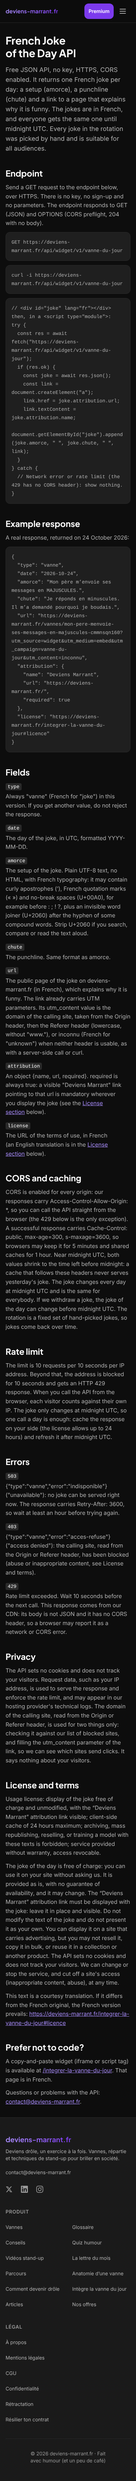
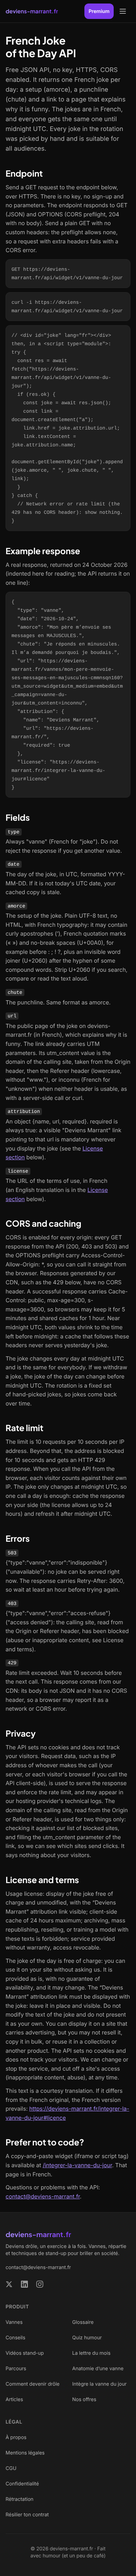
fix(widget-s22): /developers, 3e tour (périmètre CORS exact, IP de l'appelant, pas d'en-tête personnalisé, rotation à part)
Claude-Session: https://claude.ai/code/session_01YAxbXJAdESRnkaFF4w4w5d

diff --git a/apps/web/src/config/textes/developers.ts b/apps/web/src/config/textes/developers.ts
@@ -29,10 +29,10 @@ export const TEXTE_INTRO =
 
 /** Phrase avant l'exemple d'appel (GET https://deviens-marrant.fr/api/widget/v1/vanne-du-jour). */
 export const TEXTE_ENDPOINT =
-  "Send a GET request to the endpoint below, over HTTPS. There is no key, no sign-up and no parameters. The endpoint responds to GET (JSON) and OPTIONS (CORS preflight, 204 with no body).";
+  "Send a GET request to the endpoint below, over HTTPS. There is no key, no sign-up and no parameters. The endpoint responds to GET (JSON) and OPTIONS (CORS preflight, 204 with no body). Send a plain GET with no custom headers: the preflight allows none, so a request with extra headers fails with a CORS error.";
 
 /** Phrase avant l'exemple de réponse. */
-export const TEXTE_EXEMPLE = "A real response, returned on 24 October 2026:";
+export const TEXTE_EXEMPLE = "A real response, returned on 24 October 2026 (indented here for reading; the API returns it on one line):";
 
 /** Réponse réelle du 24/10/2026, à placer telle quelle dans un bloc de code. */
 export const EXEMPLE_REPONSE = `{"type":"vanne","date":"2026-10-24","amorce":"Mon père m’envoie ses messages en MAJUSCULES.","chute":"Je réponds en minuscules. Il m’a demandé pourquoi je boudais.","url":"https://deviens-marrant.fr/vannes/mon-pere-menvoie-ses-messages-en-majuscules-cmmnsqn160?utm_source=widget&utm_medium=embed&utm_campaign=vanne-du-jour&utm_content=inconnu","attribution":{"name":"Deviens Marrant","url":"https://deviens-marrant.fr/","required":true},"license":"https://deviens-marrant.fr/integrer-la-vanne-du-jour#licence"}`;
@@ -45,11 +45,11 @@ export const CHAMPS: { nom: string; description: string }[] = [
   {
     nom: "type",
     description:
-      `Always "vanne" (French for "joke") in this version. If you get another value, do not reject the response.`,
+      `Always "vanne" (French for "joke"). Do not reject the response if you get another value.`,
   },
   {
     nom: "date",
-    description: "The day of the joke, in UTC, formatted YYYY-MM-DD.",
+    description: "The day of the joke, in UTC, formatted YYYY-MM-DD. If it is not today's UTC date, your cached copy is stale.",
   },
   {
     nom: "amorce",
@@ -81,7 +81,11 @@ export const CHAMPS: { nom: string; description: string }[] = [
 
 /** CORS, cache, moment du changement de vanne. */
 export const TEXTE_CORS_CACHE =
-  "CORS is enabled for every origin: our responses carry Access-Control-Allow-Origin: *, so you can call the API straight from the browser (the 429 below is the only exception). A successful response carries Cache-Control: public, max-age=300, s-maxage=3600, so browsers may keep it for 5 minutes and shared caches for 1 hour. Near midnight UTC, both values shrink to the time left before midnight: a cache that follows these headers never serves yesterday's joke. The joke changes every day at midnight UTC and is the same for everybody. If we withdraw a joke, the joke of the day can change before midnight UTC. The rotation is a fixed set of hand-picked jokes, so jokes come back over time.";
+  "CORS is enabled for every origin: every GET response from the API (200, 403 and 503) and the OPTIONS preflight carry Access-Control-Allow-Origin: *, so you can call it straight from the browser. Responses generated by our CDN, such as the 429 below, have no CORS header. A successful response carries Cache-Control: public, max-age=300, s-maxage=3600, so browsers may keep it for 5 minutes and shared caches for 1 hour. Near midnight UTC, both values shrink to the time left before midnight: a cache that follows these headers never serves yesterday's joke.";
+
+/** Rotation : changement de vanne, retrait, retour des vannes (paragraphe à part, revue v3 C3). */
+export const TEXTE_ROTATION =
+  "The joke changes every day at midnight UTC and is the same for everybody. If we withdraw a joke, the joke of the day can change before midnight UTC. The rotation is a fixed set of hand-picked jokes, so jokes come back over time.";
 
 /** Limite de requêtes et conseil de cache. */
 export const TEXTE_LIMITE =
@@ -110,7 +114,7 @@ export const ERREURS: { code: string; description: string }[] = [
 
 /** Vie privée : usages du domaine appelant et des données de la requête. */
 export const TEXTE_VIE_PRIVEE =
-  "The API sets no cookies and does not track your visitors. Request data, such as your IP address, is used to serve the response and enforce the rate limit, and may appear in our hosting provider's technical logs. The domain of the calling site, read from the Origin or Referer header, is used for two things only: checking it against our list of blocked sites, and filling the utm_content parameter of the link, so we can see which sites send clicks. It says nothing about your visitors.";
+  "The API sets no cookies and does not track your visitors. Request data, such as the IP address of whoever makes the call (your server, or each visitor's browser if you call the API client-side), is used to serve the response and enforce the rate limit, and may appear in our hosting provider's technical logs. The domain of the calling site, read from the Origin or Referer header, is used for two things only: checking it against our list of blocked sites, and filling the utm_content parameter of the link, so we can see which sites send clicks. It says nothing about your visitors.";
 
 /**
  * Traduction de la ligne « Licence d'usage » et des « Conditions » (@legal), adaptée à l'API.

diff --git a/apps/web/src/__tests__/feature/developers-s22.test.tsx b/apps/web/src/__tests__/feature/developers-s22.test.tsx
@@ -32,6 +32,7 @@ import {
   H1,
   PAGE_TITLE,
   TEXTE_CORS_CACHE,
+  TEXTE_ROTATION,
   TEXTE_ENDPOINT,
   TEXTE_INTRO,
   TEXTE_LICENCE_CONDITIONS,
@@ -70,12 +71,12 @@ describe("page /developers", () => {
     const { container } = render(<Page />);
     const textes = [...container.querySelectorAll("p")].map((p) => p.textContent);
     expect(TEXTE_INTRO).toMatch(/^Free JSON API, no key, HTTPS, CORS enabled\. /);
-    expect(TEXTE_ENDPOINT).toContain("no parameters. The endpoint responds to GET (JSON) and OPTIONS (CORS preflight, 204 with no body).");
-    expect(TEXTE_CORS_CACHE).toContain("(the 429 below is the only exception)");
-    expect(TEXTE_CORS_CACHE).toMatch(/so jokes come back over time\.$/);
+    expect(TEXTE_ENDPOINT).toContain("no parameters. The endpoint responds to GET (JSON) and OPTIONS (CORS preflight, 204 with no body). Send a plain GET with no custom headers");
+    expect(TEXTE_CORS_CACHE).toContain("Responses generated by our CDN, such as the 429 below, have no CORS header.");
+    expect(TEXTE_ROTATION).toMatch(/so jokes come back over time\.$/);
     expect(TEXTE_VIE_PRIVEE).toContain("may appear in our hosting provider's technical logs.");
     expect(TEXTE_VIE_PRIVEE).not.toContain("used only to serve");
-    for (const t of [TEXTE_INTRO, TEXTE_ENDPOINT, TEXTE_CORS_CACHE, TEXTE_VIE_PRIVEE]) expect(textes).toContain(t);
+    for (const t of [TEXTE_INTRO, TEXTE_ENDPOINT, TEXTE_CORS_CACHE, TEXTE_ROTATION, TEXTE_VIE_PRIVEE]) expect(textes).toContain(t);
   });
 
   it("endpoint, curl -i, fetch en module avec contrôle de res.ok", () => {
@@ -97,7 +98,7 @@ describe("page /developers", () => {
     expect(codesDl(container, "Fields")).toEqual(["type", "date", "amorce", "chute", "url", "attribution", "license"]);
     expect(CHAMPS).toHaveLength(7);
     const desc = (nom: string) => CHAMPS.find((c) => c.nom === nom)?.description;
-    expect(desc("type")).toBe('Always "vanne" (French for "joke") in this version. If you get another value, do not reject the response.');
+    expect(desc("type")).toBe('Always "vanne" (French for "joke"). Do not reject the response if you get another value.');
     expect(desc("amorce")).toBe(
       "The setup of the joke. Plain UTF-8 text, no HTML, with French typography: it may contain curly apostrophes (’), French quotation marks (« ») and no-break spaces (U+00A0), for example before : ; ! ?, plus an invisible word joiner (U+2060) after the hyphen of some compound words. Strip U+2060 if you search, compare or read the text aloud.",
     );

diff --git a/apps/web/src/app/(dashboard)/developers/page.tsx b/apps/web/src/app/(dashboard)/developers/page.tsx
@@ -22,6 +22,7 @@ import {
   EXEMPLE_REPONSE,
   CHAMPS,
   TEXTE_CORS_CACHE,
+  TEXTE_ROTATION,
   TEXTE_LIMITE,
   ERREURS,
   TEXTE_VIE_PRIVEE,
@@ -176,6 +177,7 @@ export default function DevelopersPage() {
 
         <h2 className={H2}>{H2_CORS_CACHE}</h2>
         <p className={P}>{TEXTE_CORS_CACHE}</p>
+        <p className={P}>{TEXTE_ROTATION}</p>
 
         <h2 className={H2}>{H2_LIMITE}</h2>
         <p className={P}>{TEXTE_LIMITE}</p>

diff --git a/docs/reviews/review-developers-s22-v3.md b/docs/reviews/review-developers-s22-v3.md
@@ -1,0 +1,132 @@
+# Revue à l'aveugle : page `/developers` (API vanne du jour), v3, 24/10/2026
+
+Relecteur : @reviewer. J'ai jugé la page sur le résultat seul, sans ouvrir les rapports précédents de `docs/reviews/`.
+Fichiers lus : `config/textes/developers.ts`, `app/(dashboard)/developers/page.tsx`, `app/api/widget/v1/vanne-du-jour/route.ts`, `lib/widget/vanne-du-jour.ts`, `config/widget-vanne-du-jour.ts`, `lib/fr-typo.ts`, plus `robots.ts`, `layout.tsx` (racine et `(dashboard)`), `lib/ai/daily-joke-pool.ts` (filtre du pool), `vannes/[slug]/page.tsx` (fiche), `lib/widget/mesure.ts`, `wrangler.jsonc`. J'ai aussi regardé les deux captures.
+Hors périmètre, conformément aux décisions du fondateur : texte de licence (TEXTE_LICENCE_*), absence de bouton Copy, documentation de U+2060.
+
+## Verdict : NO-GO (1 bloquant), note globale 9,0/10
+
+Les 6 critères sont notés en fin de rapport. La page est solide : tout ce qu'elle dit du format, du cache, des erreurs 403/503/429, des UTM et de la rotation correspond au code et aux mesures de production. Il reste une affirmation absolue fausse, « the 429 below is the only exception » sur CORS. La grille la classe en bloquant, et une phrase suffit à la corriger. Avec B1, C1, C2 et C3 corrigés, je prévois ≥ 9,3/10 et un GO.
+
+### Résumé exécutif
+Un développeur pressé trouve en quelques secondes l'endpoint, l'absence de clé, CORS et un exemple réel. Le robot de l'annuaire peut tester l'endpoint, car `robots.txt` autorise `/api/widget/`. Il reste trois points avant publication : une phrase sur CORS trop absolue, une formulation vie privée qui laisse croire que seule l'IP de l'intégrateur est traitée, et une mise en garde manquante sur les en-têtes personnalisés (le preflight n'en autorise aucun). Rien d'inventé, aucun tiret cadratin, aucun concurrent cité.
+
+## Vérification d'exactitude (affirmation → preuve)
+
+| Affirmation de la page | Verdict | Preuve |
+|---|---|---|
+| GET + OPTIONS 204 sans corps | Exact | route.ts:70-72 |
+| Pas de clé, pas de paramètre | Exact | route.ts:48-57 (aucune lecture de query) |
+| `type` toujours "vanne" | Exact | vanne-du-jour.ts:135, route.ts:35 |
+| `date` jour UTC AAAA-MM-JJ | Exact | vanne-du-jour.ts:67-69 |
+| Apostrophes courbes, « », U+00A0 avant : ; ! ?, U+2060 après le trait d'union | Exact | fr-typo.ts:13-14, 60-62, 77-80, 87-103 ; appliqué vanne-du-jour.ts:137-138 |
+| La fiche « explains why it is funny » | Exact | pool = `comedyTechnique: { not: null }` (daily-joke-pool.ts:20), section publique « Pourquoi ça marche » (vannes/[slug]/page.tsx:232) |
+| utm_content = Origin puis Referer, minuscules, sans www., sinon « inconnu » | Exact | route.ts:49-50, vanne-du-jour.ts:184-193, 217-222 |
+| Ordre des UTM de l'exemple | Exact | widget-vanne-du-jour.ts:116-122 |
+| attribution {name,url,required:true} | Exact | widget-vanne-du-jour.ts:125-129 |
+| Cache-Control 300 / 3600, les deux raccourcis avant minuit UTC | Exact | route.ts:58-62, vanne-du-jour.ts:72-80 |
+| Changement avant minuit si une vanne est retirée | Exact | empreinte de la liste dans la clé de cache (vanne-du-jour.ts:155-157), modulo du pool (l.133) |
+| Rotation fixe, retour des vannes | Exact | 93 ids, `dayNumber % eligible.length` |
+| 503 + Retry-After: 3600 | Exact | route.ts:42 |
+| 403 domaine bloqué via Origin/Referer | Exact | route.ts:49-51 |
+| 429 du CDN, sans CORS, corps non JSON, blocage 10 s | Exact | mesure de prod du 24/10 ; doc Cloudflare (code 429 par défaut, durée de mitigation) |
+| ACAO `*` sur toutes nos réponses, « the 429 is the only exception » | **Faux** | voir B1 |
+| Aucun cookie, pas de suivi des visiteurs | Exact | mesure de prod (aucun Set-Cookie) ; la mesure Analytics Engine ne concerne que l'iframe (mesure.ts:1-5), pas l'API |
+| Journaux techniques de l'hébergeur | Exact (prudent) | wrangler.jsonc:82-84 (observability active, échantillonnage par défaut 1 = toutes les requêtes) |
+| « 10 requests per 10 seconds per IP » | Exact, simplifié | compteur par IP et par datacenter, mise à jour avec quelques secondes de délai (doc Cloudflare) : voir O3 |
+
+## Corrections
+
+### Bloquant
+
+**B1. Exception CORS présentée comme unique** (`TEXTE_CORS_CACHE`, 1re phrase)
+Problème : la phrase affirme que le 429 est la seule réponse sans `Access-Control-Allow-Origin`. C'est faux dans des cas identifiables :
+- une méthode autre que GET/OPTIONS reçoit le 405 automatique de Next.js, sans les en-têtes de `CORS_HEADERS` (route.ts n'exporte que GET et OPTIONS) ;
+- une erreur du CDN ou du runtime (5xx Cloudflare, exception du Worker) n'en porte pas non plus.
+Un dev qui croit à cette exception unique interprète mal une erreur CORS.
+- Actuel : « CORS is enabled for every origin: our responses carry Access-Control-Allow-Origin: *, so you can call the API straight from the browser (the 429 below is the only exception). »
+- Proposé : « CORS is enabled for every origin: every GET response from the API (200, 403 and 503) and the OPTIONS preflight carry Access-Control-Allow-Origin: *, so you can call it straight from the browser. Responses generated by our CDN, such as the 429 below, have no CORS header. »
+
+### À corriger
+
+**C1. Vie privée : l'IP traitée n'est pas seulement « la vôtre »** (`TEXTE_VIE_PRIVEE`, 2e phrase)
+Problème : en intégration navigateur, c'est l'IP de chaque visiteur qui est traitée, limitée et éventuellement journalisée. La phrase qui précède dit « does not track your visitors », et un intégrateur soumis au RGPD doit savoir que les IP de ses visiteurs nous parviennent. Le fond est exact, seule la formulation trompe.
+- Actuel : « Request data, such as your IP address, is used to serve the response and enforce the rate limit, and may appear in our hosting provider's technical logs. »
+- Proposé : « Request data, such as the IP address of whoever makes the call (your server, or each visitor's browser if you call the API client-side), is used to serve the response and enforce the rate limit, and may appear in our hosting provider's technical logs. »
+
+**C2. Le preflight n'autorise aucun en-tête personnalisé** (`TEXTE_ENDPOINT`)
+Problème : `CORS_HEADERS` (route.ts:21-25) n'a pas de `Access-Control-Allow-Headers`. Un `fetch` avec un en-tête non standard (`X-Api-Key`, `Content-Type: application/json` sur un GET, `X-Requested-With`) déclenche un preflight, puis échoue en erreur CORS. La page annonce pourtant « CORS enabled » et un preflight pris en charge.
+- Actuel : « … The endpoint responds to GET (JSON) and OPTIONS (CORS preflight, 204 with no body). »
+- Proposé (texte) : « … The endpoint responds to GET (JSON) and OPTIONS (CORS preflight, 204 with no body). Send a plain GET with no custom headers: the preflight allows none, so a request with extra headers fails with a CORS error. »
+- Autre option (code, @fullstack, hors page) : ajouter `"Access-Control-Allow-Headers": "*"` dans `CORS_HEADERS` (valable sans credentials). Dans ce cas, garder la phrase actuelle sans ajout.
+
+**C3. Paragraphe « CORS and caching » trop dense** (`TEXTE_CORS_CACHE`, 7 phrases et 3 sujets)
+Problème : CORS, en-têtes de cache et règles de rotation sont mélangés dans un seul bloc. Un dev ne lit pas ça en 20 s (voir la capture PC, plus long paragraphe de la page).
+- Proposé : couper en deux `<p>`. Le premier garde CORS et cache (jusqu'à « …never serves yesterday's joke. »). Le second commence à « The joke changes every day at midnight UTC… » jusqu'à la fin. Il suffit d'exporter `TEXTE_ROTATION` à part et d'ajouter un `<p>` dans page.tsx, sans changer un mot.
+
+### Optionnel
+
+**O1. Intro absolue vs exception de retrait** (`TEXTE_INTRO`)
+- Actuel : « …and everyone gets the same one until midnight UTC. »
+- Proposé : « …and everyone gets the same one for the whole UTC day. » La phrase reste vraie dans l'esprit, et la page précise l'exception (retrait) plus bas. Une autre solution est de ne rien changer : l'exception est déjà documentée sur la même page.
+
+**O2. Ligne de faits rapides sous l'intro** (scan en 20 s, lecture par le robot d'annuaire)
+- Proposé (nouvelle ligne après `TEXTE_INTRO`) : « Auth: none · HTTPS: yes · CORS: yes · Format: JSON · Rate limit: 10 requests per 10 seconds per IP. » Uniquement des faits déjà présents sur la page, rien de nouveau.
+
+**O3. Limite de requêtes approximative** (`TEXTE_LIMITE`, 1re phrase)
+- Actuel : « The limit is 10 requests per 10 seconds per IP address. »
+- Proposé : « The limit is 10 requests per 10 seconds per IP address. Counting is approximate, so stay well below it. » Le compteur Cloudflare est tenu par datacenter, et sa mise à jour peut prendre quelques secondes.
+
+**O4. Exemple reformaté** (`TEXTE_EXEMPLE`)
+- Actuel : « A real response, returned on 24 October 2026: »
+- Proposé : « A real response, returned on 24 October 2026 (indented here for reading; the API returns it on one line): ». page.tsx:86 réindente la réponse, alors que `curl -i` montre une seule ligne.
+
+**O5. `date` : détecter une copie périmée** (CHAMPS `date`)
+- Actuel : « The day of the joke, in UTC, formatted YYYY-MM-DD. »
+- Proposé : « The day of the joke, in UTC, formatted YYYY-MM-DD. If it is not today's UTC date, your cached copy is stale. » C'est utile à qui garde la réponse jusqu'à 24 h, comme la licence le permet.
+
+**O6. Renvoi licence non cliquable dans l'erreur 403** (page.tsx:190)
+- Le texte « see License and terms » de `ERREURS[403]` reste du texte brut, alors que les CHAMPS renvoient vers `#license` par un lien (`AvecRenvoiLicence`). Proposé : appliquer le même composant aux descriptions d'erreurs, avec « License and terms » comme texte du lien.
+
+**O7. Méthodes non prises en charge** (ERREURS, complète B1)
+- Proposé (nouvelle entrée) : code « 405 », description « Any method other than GET or OPTIONS. This response has no CORS header. » À ajouter seulement si @fullstack confirme le 405 en production (`curl -i -X POST …`). Sinon, ne rien ajouter : rien d'inventé.
+
+**O8. « in this version »** (CHAMPS `type`)
+- Actuel : « Always "vanne" (French for "joke") in this version. If you get another value, do not reject the response. »
+- Proposé : « Always "vanne" (French for "joke"). Do not reject the response if you get another value. » On garde la consigne de robustesse, sans laisser entendre une version suivante (pas de feuille de route).
+
+**O9. Guillemets de marque** : « "Deviens Marrant" » est entre guillemets droits dans CHAMPS `attribution` et entre guillemets courbes dans la licence. Proposé : “Deviens Marrant” partout en prose (pas dans les blocs de code). Pure cohérence visuelle.
+
+## Notes par critère
+
+| # | Critère | Note | Justification |
+|---|---|---|---|
+| 1 | Exactitude technique | 8/10 | 17 affirmations vérifiées exactes sur 18. B1 faux (bloquant). C1 et C2 : formulation trompeuse ou mise en garde manquante |
+| 2 | Clarté dev anglophone en 20 s | 8,5/10 | H1 et 1re phrase parfaits (« Free JSON API, no key, HTTPS, CORS enabled »), endpoint visible sans défiler sur PC. Anglais naturel. Le paragraphe CORS/cache est trop dense (C3) |
+| 3 | Complétude annuaire | 9/10 | Gratuit, sans clé, HTTPS, CORS, limite, erreurs, licence, contact, exemple réel, `robots.txt` qui autorise `/api/widget/` (robots.ts:19). Il manque un bloc de faits rapides (O2) |
+| 4 | Exemples curl/fetch | 9,5/10 | `curl -i` montre les en-têtes documentés. `fetch` sûr : `append` et `textContent`, aucun `innerHTML`, donc pas d'injection. Attribution visible, `lang="fr"`, try/catch cohérent avec le 429 sans CORS, `await` de premier niveau signalé (module) |
+| 5 | Règles maison | 10/10 | Aucun tiret cadratin ni demi-cadratin (Grep `[—–]` vide sur developers.ts), aucun concurrent, aucune promesse de disponibilité (« no guarantee of availability »), exemple réel daté, « hand-picked / all audiences » appuyé par la liste blanche de 93 vannes relues |
+| 6 | SEO de base | 9/10 | Title de 52 caractères, description d'environ 140, canonical relatif résolu par `metadataBase` → `https://deviens-marrant.fr/developers`, 1 H1 et 9 H2, JSON-LD WebPage (`inLanguage: en`) + WebAPI (gratuit, offre à 0), og `en_US`, présence dans le sitemap. Seule réserve : `lang="en"` est porté par le conteneur et `<html lang="fr">` reste global (layout.tsx:134), ce qui est acceptable avec un en-tête et un pied en français |
+| | **Globale** | **9,0/10** | Moyenne arithmétique (54/6). Le seuil de 9 est atteint, mais le GO exige aussi zéro bloquant : B1 suffit à donner un NO-GO |
+
+## Captures
+- PC (1440 px) : rendu propre. Hiérarchie H1/H2 nette, blocs de code contrastés et lisibles, liens identifiables (soulignés, couleur d'accent), pas de débordement, URL longue de l'exemple coupée proprement. Le seul défaut visible est la densité du paragraphe « CORS and caching » (C3).
+- Mobile (390 × 7067 px) : réduite à 110 px de large à l'affichage, donc illisible en détail. Je ne valide que la colonne unique et l'absence de débordement horizontal apparent. La lisibilité du code replié (`pre-wrap`) à 375 px n'est **pas validée** : il faudrait une capture recadrée sur la section Endpoint.
+
+## Top 3
+1. **B1** : réécrire l'exception CORS (une phrase, bloquant).
+2. **C2** : signaler que le preflight n'accepte aucun en-tête, ou ajouter `Access-Control-Allow-Headers` côté code.
+3. **C1** : préciser que l'IP traitée est celle de chaque visiteur en appel navigateur.
+
+## Décisions à confirmer par l'utilisateur
+- C2 : correction par le texte (page seule) ou par le code (`Access-Control-Allow-Headers: *`, @fullstack, à noter dans REPLIT_ACTIONS.md) ?
+
+## Recommandation
+NO-GO tant que B1 n'est pas corrigé. Il faut relancer @copywriter pour B1, C1, C2 (texte) et C3, et @fullstack pour le `<p>` de C3 (et C2 code si choisi). La version corrigée repasse ensuite une relecture à l'aveugle sur B1/C1/C2/C3 seulement.
+
+---
+**Handoff → @orchestrator**
+- Fichier produit : `/home/user/Marrant/docs/reviews/review-developers-s22-v3.md`
+- Décisions prises : NO-GO, 9,0/10, 1 bloquant (B1), 3 à corriger (C1-C3), 9 optionnels (O1-O9)
+- Points d'attention : capture mobile non exploitable en détail (recadrer la section Endpoint à 375 px) ; O7 (405) à mesurer avant tout ajout
+---
